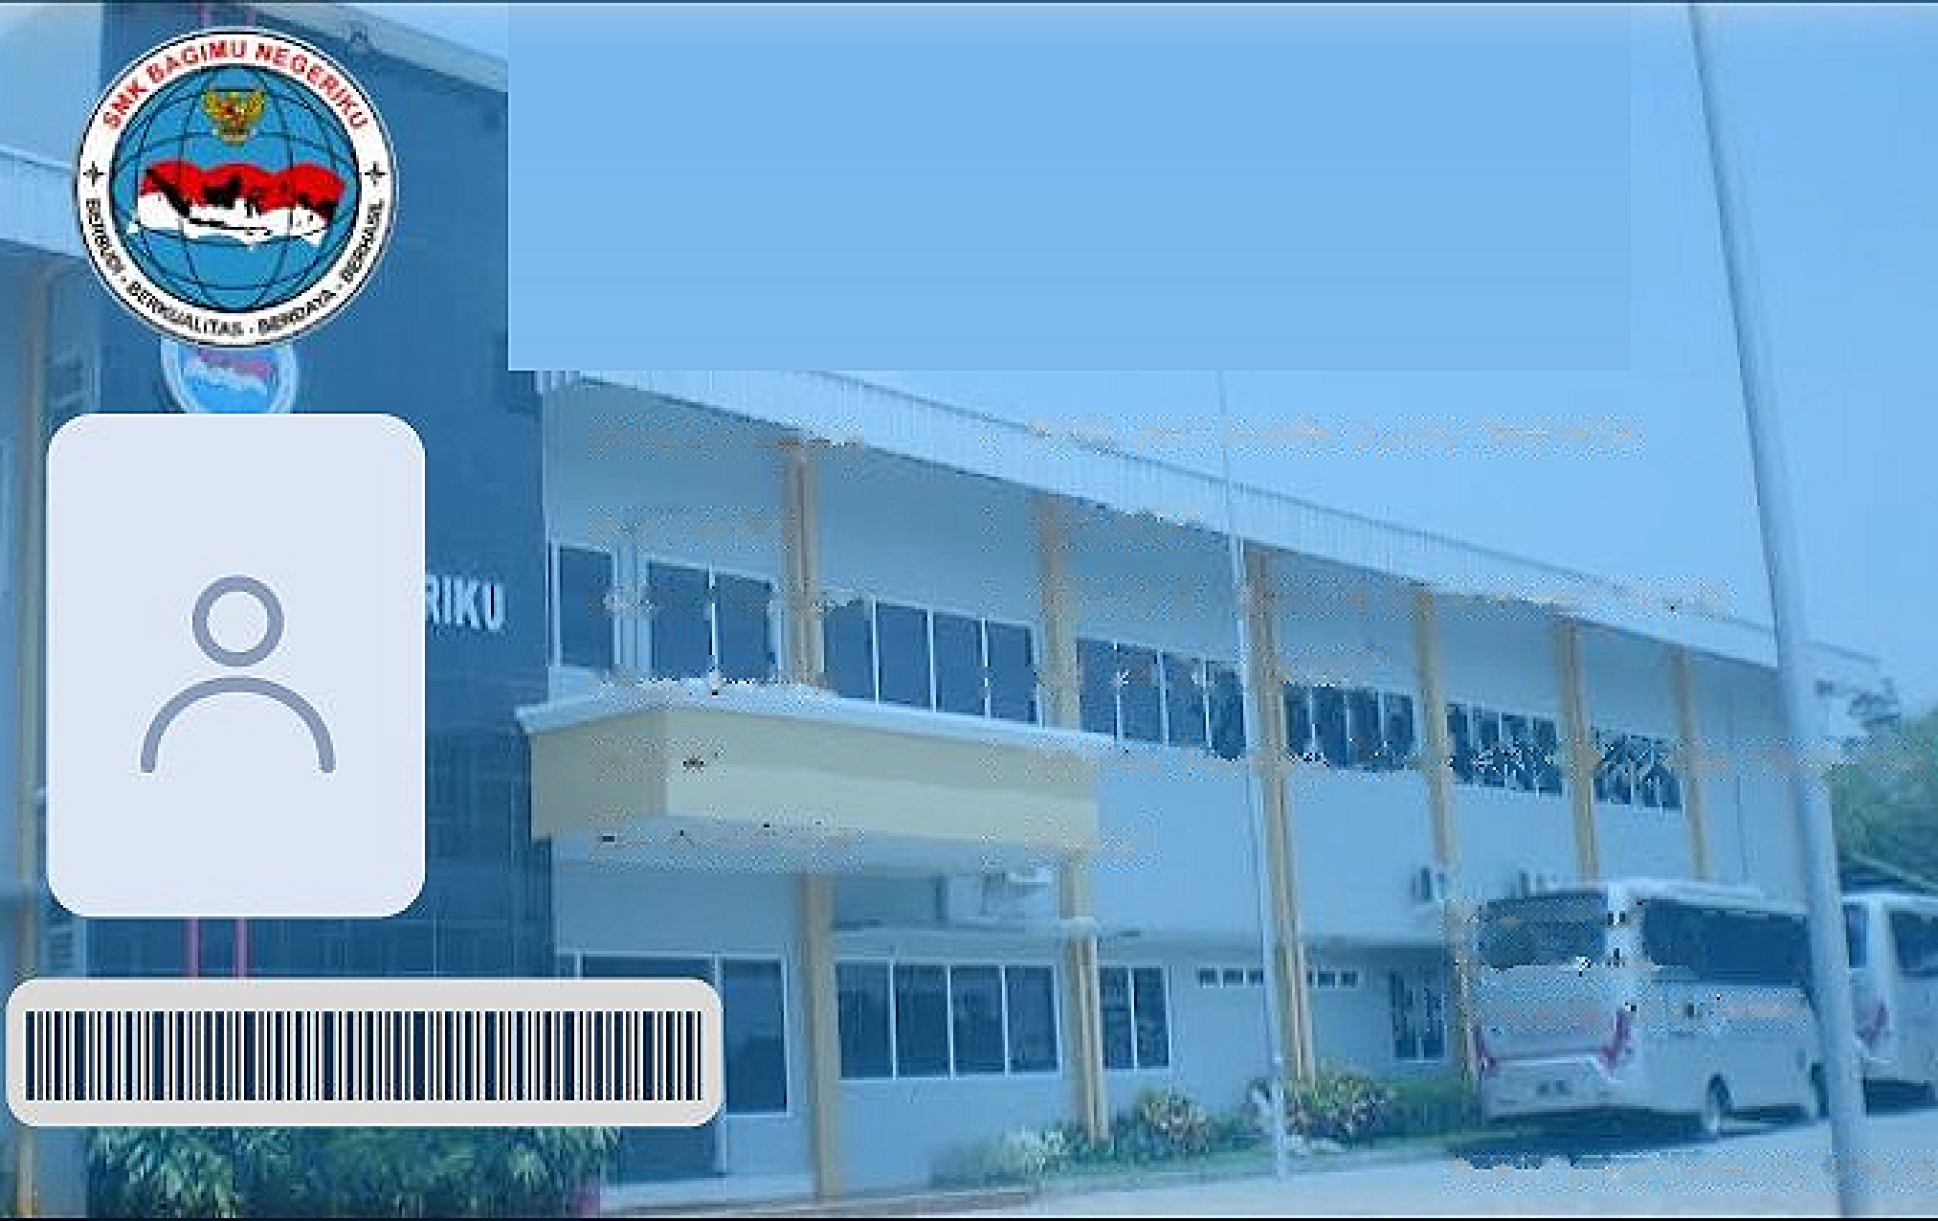
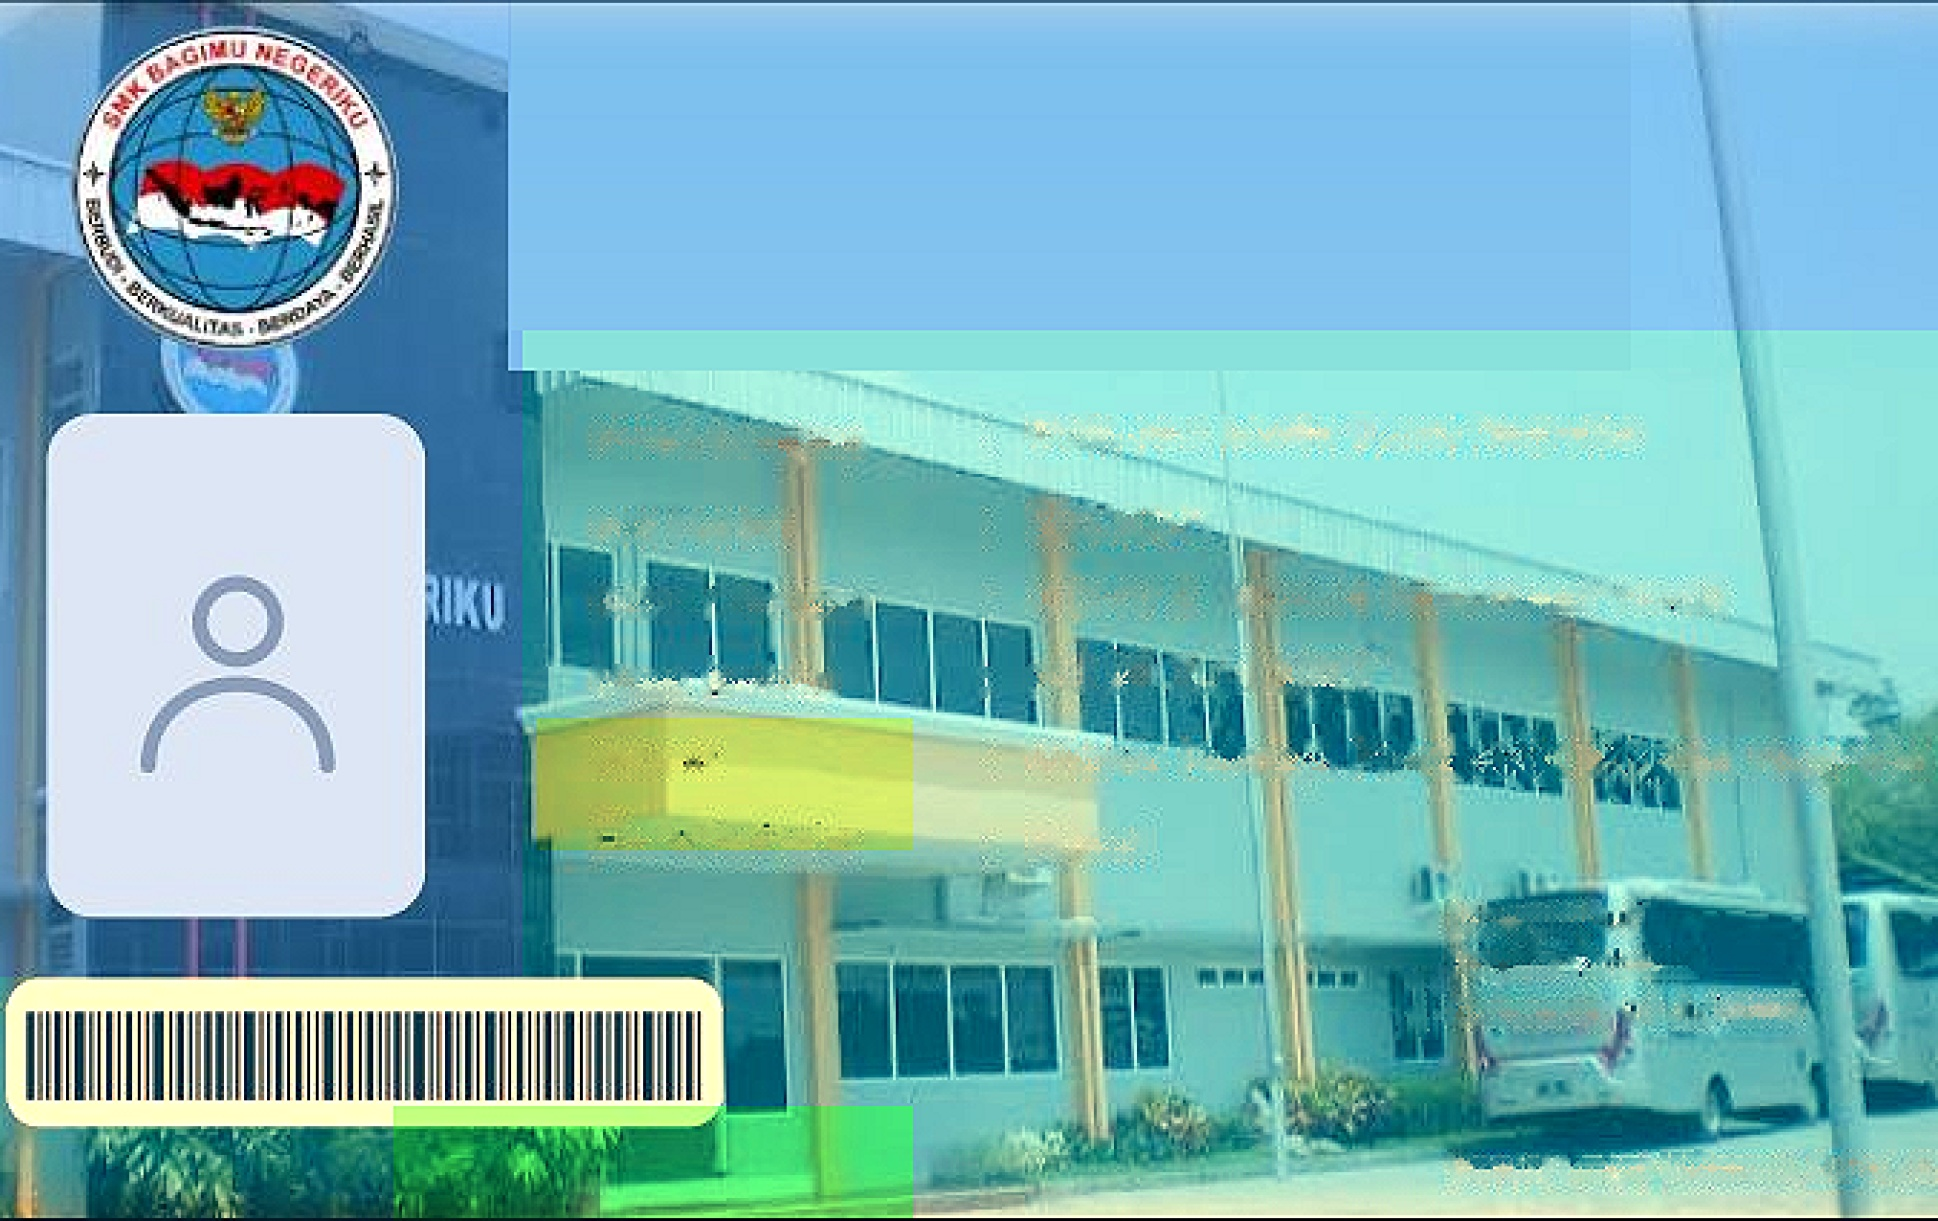
fix(siswa): hapus lapisan filter biru pada foto gedung untuk menampilkan warna foto asli yang natural

diff --git a/resources/views/siswa/kartu-public.blade.php b/resources/views/siswa/kartu-public.blade.php
@@ -23,7 +23,7 @@
             position: relative;
             width: 100%;
             aspect-ratio: 85.6 / 53.98;
-            background-color: #5280a4;
+            background-color: #ffffff;
             background-image: url('{{ asset('images/kartu-clean-bg.jpg') }}?v={{ filemtime(public_path('images/kartu-clean-bg.jpg')) }}');
             background-size: cover;
             background-repeat: no-repeat;

diff --git a/resources/views/siswa/sukses.blade.php b/resources/views/siswa/sukses.blade.php
@@ -16,7 +16,7 @@
         position: relative;
         width: 100%;
         aspect-ratio: 85.6 / 53.98;
-        background-color: #5280a4;
+        background-color: #ffffff;
         background-image: url('{{ asset('images/kartu-clean-bg.jpg') }}?v={{ filemtime(public_path('images/kartu-clean-bg.jpg')) }}');
         background-size: cover;
         background-repeat: no-repeat;
